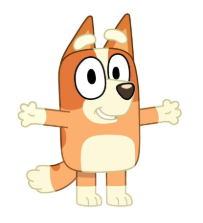
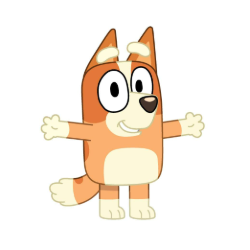
Add Muffin character and standardize image dimensions
- Add muffin.png as third selectable character
- Standardize all character images to 250x250 dimensions
- Update character list in script.js to include muffin
- Improve positioning and consistency of character images
- Update CLAUDE.md with refined instructions

🤖 Generated with [Claude Code](https://claude.ai/code)

Changed region(s): [[0.0887, 0.0538, 0.9163, 0.9417]]

diff --git a/script.js b/script.js
@@ -35,7 +35,7 @@ class LilyTicTacToe {
         // Since we can't directly read the filesystem in browser,
         // we'll use a predefined list that matches the Players directory
         // This could be made dynamic with a server endpoint in the future
-        const characterFiles = ['bluey.png', 'bingo.png'];
+        const characterFiles = ['bluey.png', 'bingo.png', 'muffin.png'];
         
         this.availableCharacters = characterFiles.map(filename => {
             const name = filename.replace('.png', '');

diff --git a/CLAUDE.md b/CLAUDE.md
@@ -1,11 +1,12 @@
 ## Testing Workflow
-- cleanup any test containers from previous runs
+- Cleanup any test containers from previous runs
 - Every time you complete a task, to verify the application is working, rebuild the docker container, stop and remove the current container if its running, then use puppeteer to open the application from the container, take screenshots to verify the changes, then play a game to completion, and take a screenshot of the winner.  if you can't play a game to completion or see the requested changes, fix the application until you can.  
-- do not clean up the test container by runing docker stop and docker rm on the container when you are done testing.  leave the application running in the container so i can validate.
+- Do not clean up the test container by runing docker stop and docker rm on the container when you are done testing.  leave the application running in the container so i can validate.
 - All changes should be responsive, and display properly on a cell phone screen, tablet, and computer monitor
-- It's important to never git commit or push to github as part of your plan
-- Make sure you're putting all screenshots in the Screenshots directory
+- IMPORTANT never git commit or push to github as part of your plan
+- If the Screenshots directory doesn't exist, create it.  Make sure you're putting all screenshots in the Screenshots directory.  
 - Every time you start a new task, clear out the screenshots directory before starting
 
 ## Communication Shortcuts
 - Whenever I say "ship it", that means push the changes to github.
+- Whenever I say "start it", that means ensure the container is rebuilt and running
